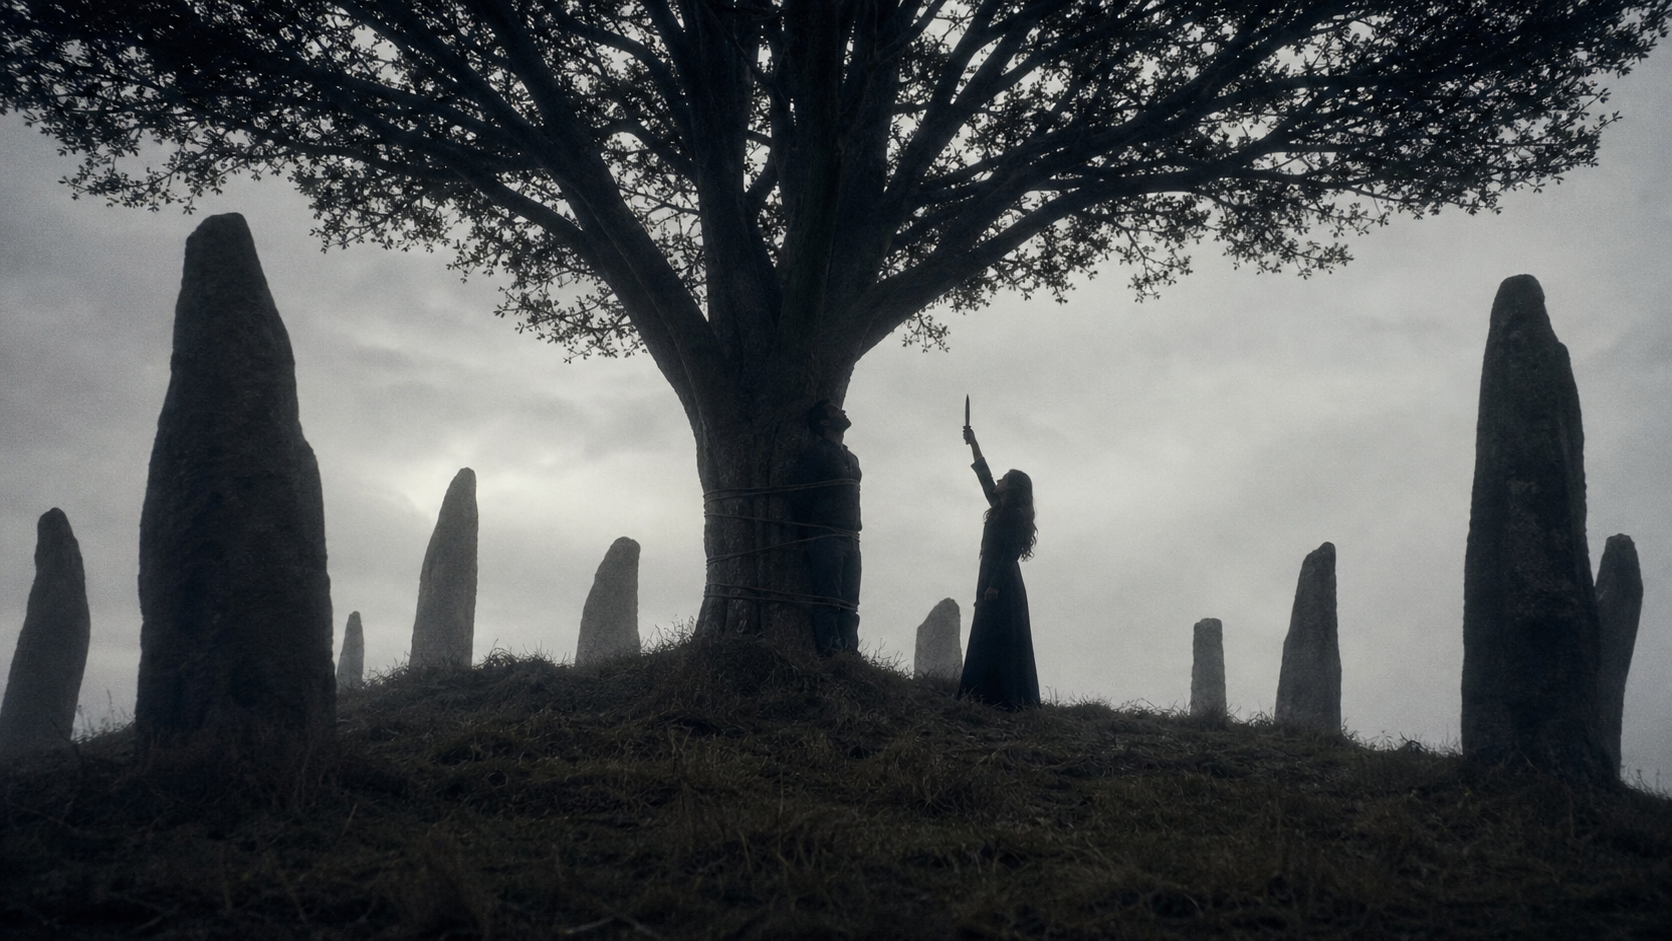
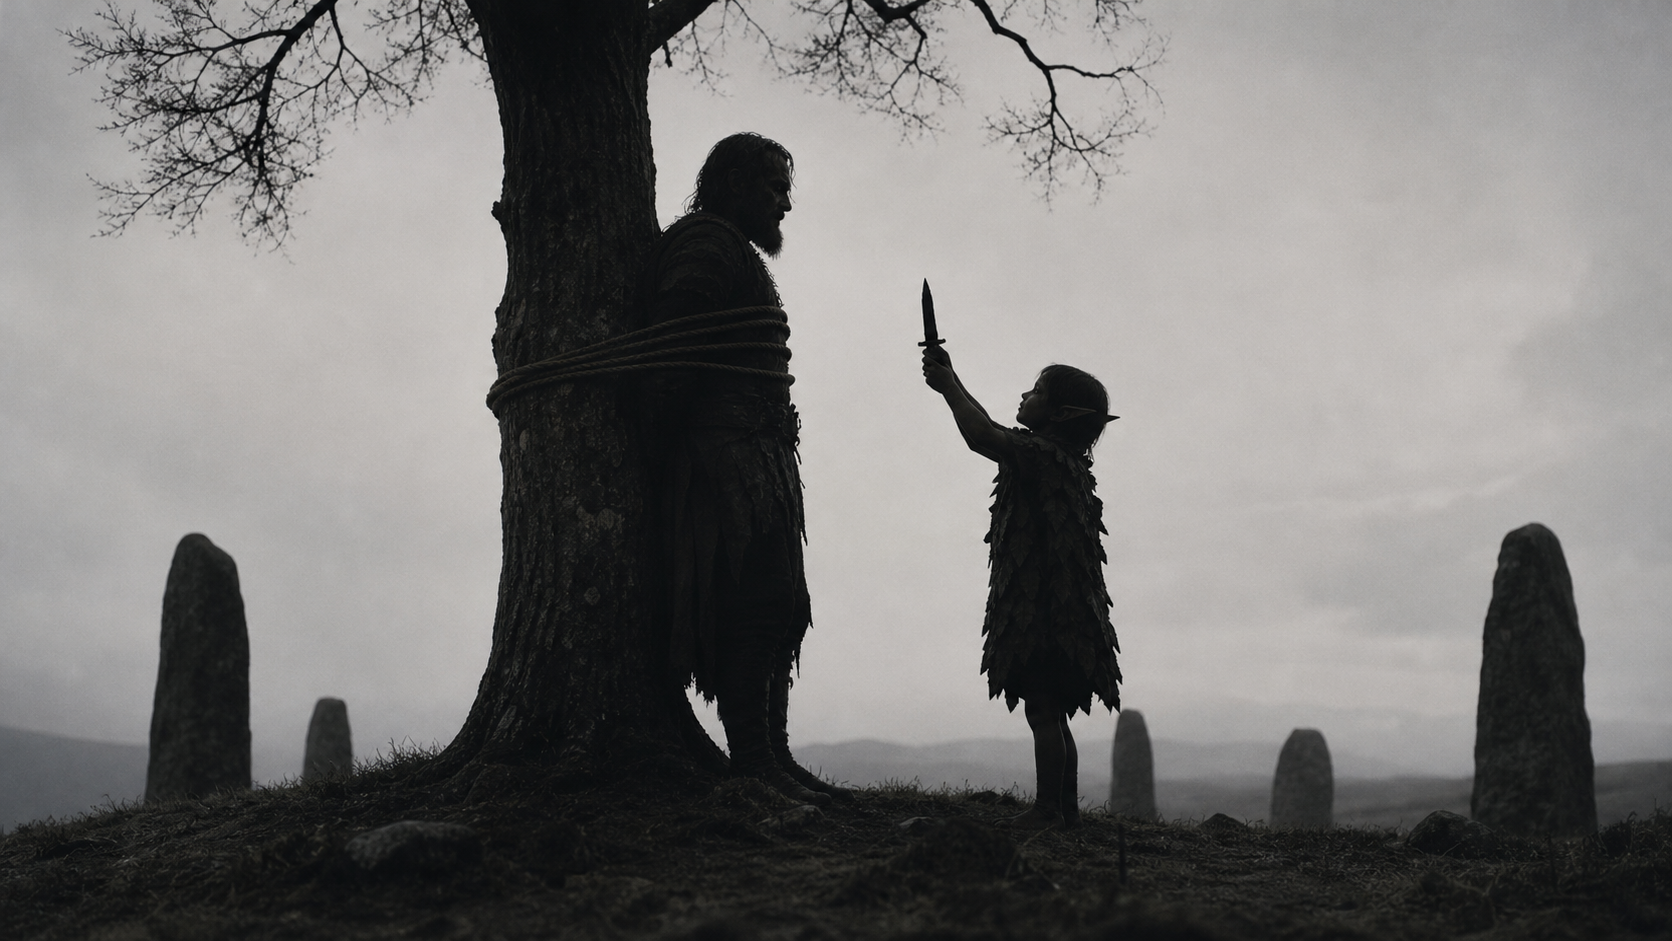
GOT002: S118/S122 redo + S127-S134 PASS (134/150), tracker v2.66

diff --git a/projects/dune_archives/00_master/MASTER_INDEX_AND_TRACKER.md b/projects/dune_archives/00_master/MASTER_INDEX_AND_TRACKER.md
@@ -742,5 +742,6 @@ Index/QC v21 Doc: `1Xd5uubuVr8HSOOF7w4-m3S2es9A0PhxvI7hFvTYLZpw`. S012/S016 turn
 | v2.63 | 2026-11-27 | GOT002: S092 redo PASS; S098–S106 PASS (Age of Heroes ringfort, First Men kneel, side by side in the Long Night [letterbox cropped], hundred daggers, Andal longships, iron & steel, healed star scar, Andals scorn the face, felled weirwood). 106/150. |
 | v2.64 | 2026-11-27 | GOT002: S107–S116 PASS (child flees the torches, ringfort smokes, High Heart, 31 stumps, Andal king among stumps, High Heart ghosts, the snowy North, Andals bogged at the Neck, northern holdfast + heart tree, seven-sided sept). 116/150. |
 | v2.65 | 2026-11-27 | GOT002: S117, S119–S121, S123–S126 PASS (TV silhouette, eyes turn blue, dead host, book closes, crouched hunter→REDO, the Other, child watches storm, Bran party at the hill, Leaf throws fire); S118 + S122 REDO. 124/150. |
+| v2.66 | 2026-11-27 | GOT002: S118 + S122 redo PASS; S127–S134 PASS (cave in the hill, Leaf speaks to Bran, giant & singers, singers in the cave, dawn-of-days vision, roots through the arm, Bran on the root throne, blood-offering vision). 134/150. |
 
 > Turn 22 note: the old manifests v11, continuity v1.4 and original tracker Doc have their Drive descriptions set to SUPERSEDED, pointing at the new IDs above. The Drive tracker v2.12 Doc is a snapshot taken before its own ID was added here.
